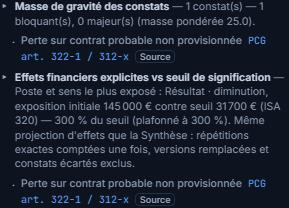
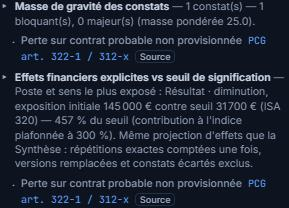
fix(c05): schéma du SynthesisSnapshot 2.0.0 (revue Codex PR #79) ; recette e2e sur build de production 47/47
La structure d'`exposure` change de façon incompatible (byCloison retiré, champs
obligatoires ajoutés aux étapes, membres et groupes) : SYNTHESIS_SCHEMA_VERSION passe
de 1.0.0 à 2.0.0 pour que les consommateurs de l'export distinguent les deux formes.
Captures C05 régénérées sur le build de production (rapport exact au seuil).

Changed region(s): [[0.0311, 0.5481, 0.9654, 0.8077]]

diff --git a/lib/synthesis/engine.ts b/lib/synthesis/engine.ts
@@ -40,7 +40,8 @@ import type {
   Verdict,
 } from "./types";
 
-export const SYNTHESIS_SCHEMA_VERSION = "1.0.0";
+/** 2.0.0 (C05, second passage) : `exposure.byCloison` retiré ; `EffectStage` (pont), membres (poste, cloison) et groupes (étape de revue) enrichis. */
+export const SYNTHESIS_SCHEMA_VERSION = "2.0.0";
 export const SYNTHESIS_ENGINE_VERSION = "1.2.0";
 export const SYNTHESIS_POLICY_VERSION = "2.1.0";
 

diff --git a/docs/probant-lots/HANDOFF.md b/docs/probant-lots/HANDOFF.md
@@ -15,7 +15,7 @@
 
 ## Changements
 
-**Projection unique** — `lib/synthesis/exposure.ts` : `projectExposure` (déplacement sans changement de règles de la section 4 du moteur : collecte, déduplication, étapes, fiscalité, net), `projectSnapshotExposure`, `reviewStatusMap`, `restrictExposure` (périmètre = groupes touchés, aucun recalcul), `summarizeStages` (pont par poste et sens lu membre par membre), `isEurSignalWithoutEffect`, ensembles de statuts (`CLOSED_REVIEW` y vit, le moteur le réexporte). Membres porteurs du poste et de la cloison ; groupes déterminés porteurs de `reviewStage` et `correctedCents`. `EffectStage` complété (détecté, répétitions, versions, hors agrégat, déterminé, écarté) ; invariants au centime documentés et testés. `byCloison` supprimé. Politique d'agrégation 2.1.0 (une répétition exacte aux décisions divergentes garde son rôle `exact_repeat`), moteur 1.2.0. `lib/synthesis/effect-labels.ts` : libellés partagés des postes et sens.
+**Projection unique** — `lib/synthesis/exposure.ts` : `projectExposure` (déplacement sans changement de règles de la section 4 du moteur : collecte, déduplication, étapes, fiscalité, net), `projectSnapshotExposure`, `reviewStatusMap`, `restrictExposure` (périmètre = groupes touchés, aucun recalcul), `summarizeStages` (pont par poste et sens lu membre par membre), `isEurSignalWithoutEffect`, ensembles de statuts (`CLOSED_REVIEW` y vit, le moteur le réexporte). Membres porteurs du poste et de la cloison ; groupes déterminés porteurs de `reviewStage` et `correctedCents`. `EffectStage` complété (détecté, répétitions, versions, hors agrégat, déterminé, écarté) ; invariants au centime documentés et testés. `byCloison` supprimé. Politique d'agrégation 2.1.0 (une répétition exacte aux décisions divergentes garde son rôle `exact_repeat`), moteur 1.2.0, schéma du snapshot 2.0.0 (structure d'`exposure` incompatible avec 1.0.0 ; revue Codex PR #79). `lib/synthesis/effect-labels.ts` : libellés partagés des postes et sens.
 
 **Risques** — `scoring.ts` : gravité sur l'exposition initiale du **poste et sens le plus exposé** de la projection partagée (rapport exact au seuil affiché, contribution plafonnée à 300 %), autres postes listés non additionnés ; groupes indéterminés en driver « Effets à montant indéterminé » (bornes, aucun montant) et dans la composante qualitative ; `explicitEffectEur` supprimé ; driver de détectabilité reformulé (« écart mesuré… signal de détection, pas une anomalie chiffrée »). `aggregate.ts` : une projection pour tous les cycles, agrégat de page `effects` (projection du dossier entier) au lieu de `totalIncidenceEur`. `RiskMappingView.tsx` : transmet `projectSnapshotExposure(snapshot)`.
 
@@ -38,7 +38,8 @@
 | Typecheck | OK |
 | Lint | 0 erreur, 7 avertissements préexistants hors lot |
 | `e2e/c05-effets-partages.spec.ts` (Synthèse, Cloisons, Risques × 390 / 1024 / 1440) sur `next dev` | 9 / 9 serveur chaud ; premier passage à froid : 4 échecs de délai (« Lecture du dossier sélectionné… »), pas d'assertion fausse |
-| Même parcours et parcours existants sur le build de production | **non exécutés au moment de la PR** : le contrôle « E2E Playwright · axe » de la CI fait foi |
+| Build de production (`next build`) | OK, 180 pages générées |
+| Sur le build de production : `c05-effets-partages` (× 3 largeurs), `demo-journey`, `accessibility`, `c00-layout`, `c02-finition`, `c03-assertions` | 47 réussis / 47 (captures C02/C03 redirigées hors du dépôt, captures C05 régénérées) |
 
 
 ## Limites et maturité

diff --git a/docs/mission-c05/CONTRAT_EFFETS.md b/docs/mission-c05/CONTRAT_EFFETS.md
@@ -43,6 +43,8 @@ Règles (politique `probant-exposure-aggregation` v2.1.0 ; 2.0.0 au premier pass
 | Sens opposés dans un même groupe | aucune compensation | cluster `indeterminate`, direction `mixed`, bornes sans netting |
 | Identités distinctes sans écriture commune | indépendants | clusters `determined`, additionnés par poste et sens |
 
+Schéma du `SynthesisSnapshot` 2.0.0 (changement incompatible : `byCloison` retiré, champs obligatoires ajoutés aux étapes, membres et groupes ; revue Codex PR #79).
+
 Le maximum n'est jamais présenté comme une somme comptable. Les scalaires `grossDetectedExposureCents`, `determinedExposureCents`, `exposureBoundsCents`, `reviewedExposureCents`… sont des **volumes en valeur absolue, tous postes et sens confondus** : contrôles de cohérence du pipeline, tracés, jamais affichés comme un montant ; aucune vue ni aucun export ne les présente plus (second passage). `byCloison`, qui additionnait postes et sens d'une même cloison, est supprimé.
 
 ## 3. Étapes de l'effet, par poste et par sens
